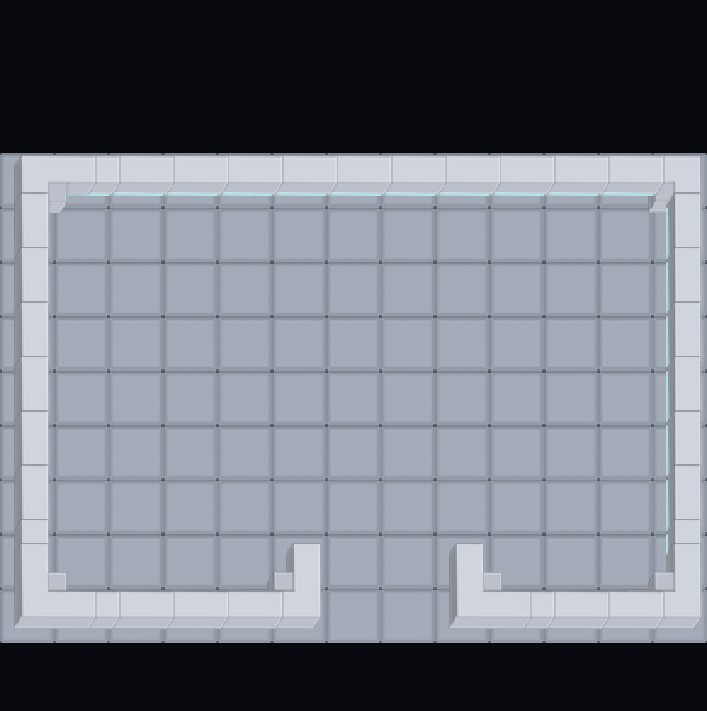
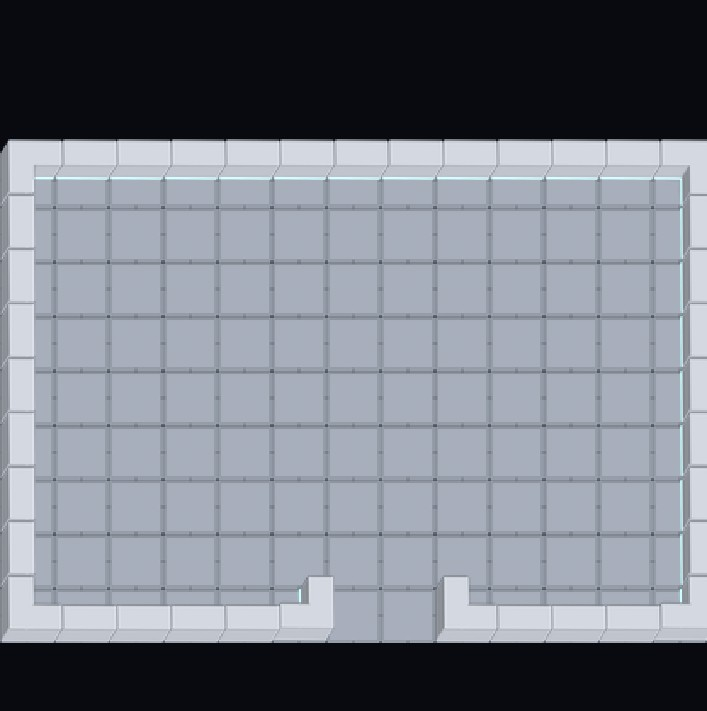
interior: unified single-cell tileset bake (corner footprints fit grid)

Changed region(s): [[0.0, 0.1857, 1.0, 0.9283]]

diff --git a/scripts/ship3d/interior_cabinet_tiles.py b/scripts/ship3d/interior_cabinet_tiles.py
@@ -1,0 +1,136 @@
+#!/usr/bin/env python3
+"""Bake the cabinet interior tileset — floor + 4 edges + 4 corners.
+
+ONE unified model so edges and corners match exactly: a tile is defined by
+the SET of cell-edges that carry a wall slab. Every slab is a single-cell
+piece (1.0 along the run, WALL_T across), so a corner is just the UNION of
+two edge slabs inside the SAME cell — its ground footprint stays within one
+grid square (only the cabinet shear spills the leaning height over the
+neighbours, exactly like the straight walls).
+
+  edges:   N  S  E  W                     one slab
+  corners: CNW={N,W} CNE={N,E}            two slabs, L inside one cell
+           CSW={S,W} CSE={S,E}
+
+Everything is rendered under ONE fixed cabinet shear (height skewed
+up-and-right) with a straight-down ortho camera, on transparent film, so the
+pieces tile and share the game's toon+ink look.
+
+Run:  scripts/.blender_venv/bin/python scripts/ship3d/interior_cabinet_tiles.py
+Out:  scripts/ship3d/out/tiles/_it_*.png   (256 px/unit; anchor = cell centre)
+"""
+import os
+
+import bpy
+from mathutils import Matrix
+
+import blender_gen as B
+
+OUT = os.path.join(os.path.dirname(__file__), "out", "tiles")
+
+PXU = 256           # pixels per world unit
+FRAME = 4.0         # ortho span (units) → 1024 px frame, room for the lean
+RES = int(FRAME * PXU)
+
+# cabinet shear: screen offset per unit of height (matches the compose/engine)
+SHX, SHY = 0.26, 0.42
+WALL_H = 1.1
+WALL_T = 0.48       # wall thickness (fraction of a cell) — chunky, reads as solid
+
+FLOOR = (0.32, 0.36, 0.42)
+FLOOR_HI = (0.39, 0.43, 0.50)
+FLOOR_SEAM = (0.24, 0.27, 0.32)   # recessed panel seam (darker, not a glow)
+WALL = (0.52, 0.55, 0.61)
+WALL_TOP = (0.66, 0.69, 0.75)
+TRIM = (0.25, 0.72, 0.86)
+
+
+def _shear():
+    S = Matrix(((1, 0, SHX, 0), (0, 1, SHY, 0), (0, 0, 1, 0), (0, 0, 0, 1)))
+    for o in bpy.context.scene.objects:
+        if o.type == "MESH":
+            o.matrix_world = S @ o.matrix_world
+
+
+def _topdown():
+    cam = bpy.context.scene.camera
+    cam.data.type = "ORTHO"
+    cam.data.ortho_scale = FRAME
+    cam.location = (0, 0, 20)
+    cam.rotation_euler = (0, 0, 0)
+
+
+# slab geometry per edge: (centre, size). 1.0 along the run, WALL_T across,
+# tucked against that edge of the cell.
+def _edge_slab(edge):
+    h = WALL_H
+    if edge == "N":
+        return (0, 0.5 - WALL_T / 2, h / 2), (1.0, WALL_T, h)
+    if edge == "S":
+        return (0, -0.5 + WALL_T / 2, h / 2), (1.0, WALL_T, h)
+    if edge == "E":
+        return (0.5 - WALL_T / 2, 0, h / 2), (WALL_T, 1.0, h)
+    if edge == "W":
+        return (-0.5 + WALL_T / 2, 0, h / 2), (WALL_T, 1.0, h)
+    raise ValueError(edge)
+
+
+# room-facing base-trim strip for an edge (the inner face that fronts the floor)
+def _edge_trim(edge):
+    z, t = 0.06, 0.05
+    if edge == "N":
+        return (0, 0.5 - WALL_T, z), (0.96, t, 0.10)
+    if edge == "S":
+        return (0, -0.5 + WALL_T, z), (0.96, t, 0.10)
+    if edge == "E":
+        return (0.5 - WALL_T, 0, z), (t, 0.96, 0.10)
+    if edge == "W":
+        return (-0.5 + WALL_T, 0, z), (t, 0.96, 0.10)
+    raise ValueError(edge)
+
+
+def bake_tile(name, edges):
+    B.reset()
+    mw = B.toon_material("wall", WALL)
+    mwt = B.toon_material("walltop", WALL_TOP)
+    mt = B.glow_material("trim", TRIM, strength=2.6)
+    for e in edges:
+        (cx, cy, cz), (sx, sy, sz) = _edge_slab(e)
+        B.add_box(f"w_{e}", (cx, cy, cz), (sx, sy, sz), mw, bevel=0.03)
+        B.add_box(f"cap_{e}", (cx, cy, WALL_H + 0.03), (sx, sy, 0.08), mwt)
+        (tx, ty, tz), (tsx, tsy, tsz) = _edge_trim(e)
+        B.add_box(f"tr_{e}", (tx, ty, tz), (tsx, tsy, tsz), mt)
+    _shear()
+    B.setup_scene(ortho=FRAME, res=RES, freestyle_thick=1.4)
+    _topdown()
+    B.render_to(os.path.join(OUT, f"_it_{name}.png"))
+
+
+def bake_floor():
+    B.reset()
+    mf = B.toon_material("floor", FLOOR)
+    mfh = B.toon_material("floorhi", FLOOR_HI)
+    ms = B.toon_material("seam", FLOOR_SEAM)
+    B.add_box("floor", (0, 0, -0.05), (1.0, 1.0, 0.1), mf)
+    B.add_box("panel", (0, 0, 0.005), (0.9, 0.9, 0.02), mfh, bevel=0.06)
+    # subtle recessed panel seams (a calm dark inset, not a glowing grid)
+    B.add_box("sx", (0, 0, 0.008), (0.03, 0.98, 0.006), ms)
+    B.add_box("sy", (0, 0, 0.008), (0.98, 0.03, 0.006), ms)
+    B.setup_scene(ortho=1.0, res=PXU, freestyle_thick=1.2)
+    _topdown()
+    bpy.context.scene.camera.data.ortho_scale = 1.0
+    B.render_to(os.path.join(OUT, "_it_floor.png"))
+
+
+TILES = {
+    "N": ("N",), "S": ("S",), "E": ("E",), "W": ("W",),
+    "CNW": ("N", "W"), "CNE": ("N", "E"), "CSW": ("S", "W"), "CSE": ("S", "E"),
+}
+
+if __name__ == "__main__":
+    os.makedirs(OUT, exist_ok=True)
+    bake_floor()
+    for name, edges in TILES.items():
+        bake_tile(name, edges)
+        print("baked", name)
+    print("tiles →", os.path.abspath(OUT))
